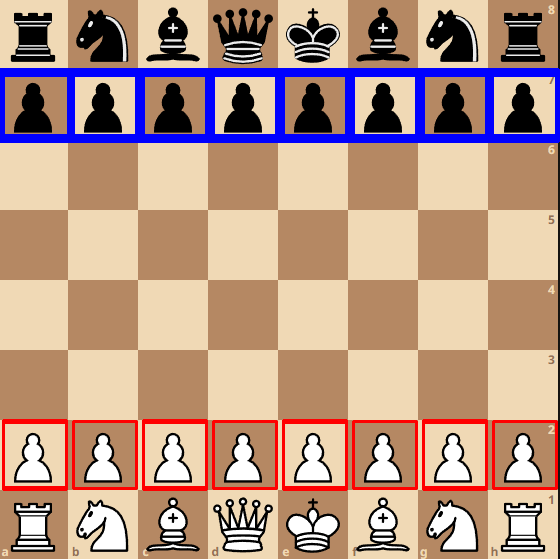
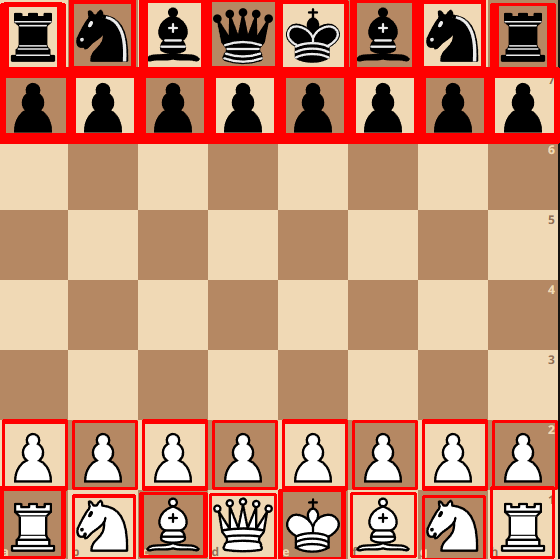
Refactored image_analyser.py, created function to download_stockfish.py for future release in a gui wrap
1) Fully refactored image_analyser.py, turned pieces into dictionaries
2) Added download_stockfish.py, so user can download stockfish if he doesn't have one
3) Added all files for set_1.png recognition

Changed region(s): [[0.0, 0.0, 1.0, 0.2737], [0.0, 0.8819, 1.0, 1.0]]

diff --git a/training/image_analyser.py b/training/image_analyser.py
@@ -1,35 +1,48 @@
 import cv2
 import numpy as np
 
-# loading pics of board and pieces.
-# TODO: make it better
+
+def detect_pieces(board, pieces):
+    for piece in pieces:
+        img_piece_clr = cv2.imread(piece, cv2.IMREAD_UNCHANGED)
+
+        img_piece_clr_readable = cv2.cvtColor(img_piece_clr, cv2.COLOR_BGR2GRAY)
+
+        h, w = img_piece_clr_readable.shape
+
+        res = cv2.matchTemplate(img_board_readable, img_piece_clr_readable, cv2.TM_CCOEFF_NORMED)
+        threshold = 0.8
+        loc = np.where(res >= threshold)
+
+        for pt in zip(*loc[::-1]):
+            cv2.rectangle(board, pt, (pt[0] + w, pt[1] + h), (0, 0, 255), 2)
+
+    return board
+
+
+# load board and piece images
 img_board = cv2.imread('train_data/set_1.png')
-img_piece_pawn_white = cv2.imread('train_data/white_pawn.png', cv2.IMREAD_UNCHANGED)
-img_piece_pawn_black = cv2.imread('train_data/black_pawn.png', cv2.IMREAD_UNCHANGED)
-
-# making it gray scale, probably not needed because they have solid color. Need to change
 img_board_readable = cv2.cvtColor(img_board, cv2.COLOR_BGR2GRAY)
-img_piece_pawn_white_readable = cv2.cvtColor(img_piece_pawn_white, cv2.COLOR_BGR2GRAY)
-img_piece_pawn_black_readable = cv2.cvtColor(img_piece_pawn_black, cv2.COLOR_BGR2GRAY)
 
-# setting bound boxes to our pictures
-h_white, w_white = img_piece_pawn_white_readable.shape
-h_black, w_black = img_piece_pawn_black_readable.shape
+pieces_white = {
+    'Pawn': 'train_data/usual_chess/white_pawn.png',
+    'King': 'train_data/usual_chess/white_king.png',
+    'Queen': 'train_data/usual_chess/white_queen.png',
+    'Rook': 'train_data/usual_chess/white_rook.png',
+    'Bishop': 'train_data/usual_chess/white_bishop.png',
+    'Horse': 'train_data/usual_chess/white_horse.png'
+}
 
-# searching for white pawn
-res_white = cv2.matchTemplate(img_board_readable, img_piece_pawn_white_readable, cv2.TM_CCOEFF_NORMED)
-threshold_white = 0.8
-loc_white = np.where(res_white >= threshold_white)
+pieces_black = {
+    'Pawn': 'train_data/usual_chess/black_pawn.png',
+    'King': 'train_data/usual_chess/black_king.png',
+    'Queen': 'train_data/usual_chess/black_queen.png',
+    'Rook': 'train_data/usual_chess/black_rook.png',
+    'Bishop': 'train_data/usual_chess/black_bishop.png',
+    'Horse': 'train_data/usual_chess/black_horse.png'
+}
 
-for pt in zip(*loc_white[::-1]):
-    cv2.rectangle(img_board, pt, (pt[0] + w_white, pt[1] + h_white), (0, 0, 255), 2)
-
-# searching for black pawn
-res_black = cv2.matchTemplate(img_board_readable, img_piece_pawn_black_readable, cv2.TM_CCOEFF_NORMED)
-threshold_black = 0.8
-loc_black = np.where(res_black >= threshold_black)
-
-for pt in zip(*loc_black[::-1]):
-    cv2.rectangle(img_board, pt, (pt[0] + w_black, pt[1] + h_black), (255, 0, 0), 2)
+img_board = detect_pieces(img_board, pieces_white.values())
+img_board = detect_pieces(img_board, pieces_black.values())
 
 cv2.imwrite('res.png', img_board)

diff --git a/download_stockfish.py b/download_stockfish.py
@@ -1,0 +1,38 @@
+import requests
+from tqdm import tqdm
+import zipfile
+import os
+
+
+def download_file(url, filename):
+    response = requests.get(url, stream=True)
+
+    # Get the total file size
+    file_size = int(response.headers.get('Content-Length', 0))
+
+    # Initialize the progress bar
+    progress = tqdm(response.iter_content(1024), f'Downloading {filename}', total=file_size, unit='B', unit_scale=True,
+                    unit_divisor=1024, colour="blue")
+
+    with open(filename, 'wb') as file:
+        for data in progress.iterable:
+            # Write data read to the file
+            file.write(data)
+            # Update the progress bar manually
+            progress.update(len(data))
+
+
+def extract_file(filename, directory):
+    with zipfile.ZipFile(filename, 'r') as zip_ref:
+        zip_ref.extractall(directory)
+
+    os.remove(filename)
+
+
+url = 'https://github.com/official-stockfish/Stockfish/releases/download/sf_16/stockfish-windows-x86-64-avx2.zip'
+
+filename = 'downloaded_file.zip'
+directory = 'stockfish_download'
+
+download_file(url, filename)
+extract_file(filename, directory)
